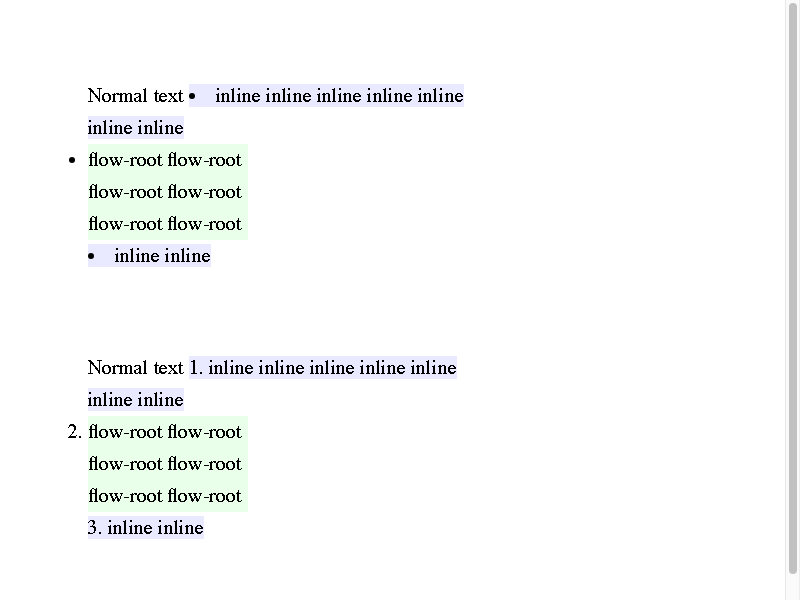
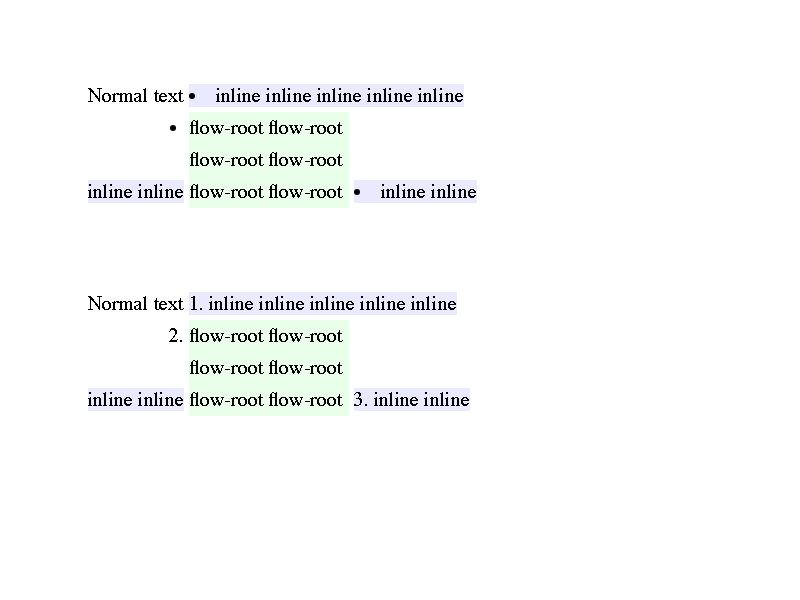
css-multiple-display: Support 'inline flow-root list-item' rendering
Bug: 995106
Commit-Queue: Koji Ishii <kojii@chromium.org>
Code-Coverage: Findit <findit-for-me@appspot.gserviceaccount.com>
Auto-Submit: Kent Tamura <tkent@chromium.org>
Cr-Commit-Position: refs/heads/main@{#1132479}

diff --git a/renderer/core/layout/ng/inline/ng_inline_layout_algorithm.cc b/renderer/core/layout/ng/inline/ng_inline_layout_algorithm.cc
@@ -263,8 +263,9 @@ void NGInlineLayoutAlgorithm::CreateLine(
   // strut, for *every* line. This matches other browsers. The intention may
   // have been to make sure that there's always room for the list item marker,
   // but that doesn't explain why it's done for every line...
-  if (quirks_mode_ && line_style.Display() == EDisplay::kListItem)
+  if (quirks_mode_ && ComputedStyle::IsDisplayListItem(line_style.Display())) {
     box->ComputeTextMetrics(line_style, *box->font, baseline_type_);
+  }
 
   for (NGInlineItemResult& item_result : *line_items) {
     DCHECK(item_result.item);

diff --git a/renderer/core/style/computed_style.h b/renderer/core/style/computed_style.h
@@ -2572,6 +2572,7 @@ class ComputedStyle : public ComputedStyleBase,
 
   static bool IsDisplayReplacedType(EDisplay display) {
     return display == EDisplay::kInlineBlock ||
+           display == EDisplay::kInlineFlowRootListItem ||
            display == EDisplay::kWebkitInlineBox ||
            display == EDisplay::kInlineFlex ||
            display == EDisplay::kInlineTable ||

diff --git a/renderer/core/layout/ng/inline/ng_inline_items_builder.cc b/renderer/core/layout/ng/inline/ng_inline_items_builder.cc
@@ -1252,8 +1252,9 @@ void NGInlineItemsBuilderTemplate<OffsetMappingBuilder>::EnterBlock(
                      kPopDirectionalFormattingCharacter);
   }
 
-  if (style->Display() == EDisplay::kListItem && style->ListStyleType())
+  if (style->IsDisplayListItem() && style->ListStyleType()) {
     is_block_level_ = false;
+  }
 }
 
 template <typename OffsetMappingBuilder>
